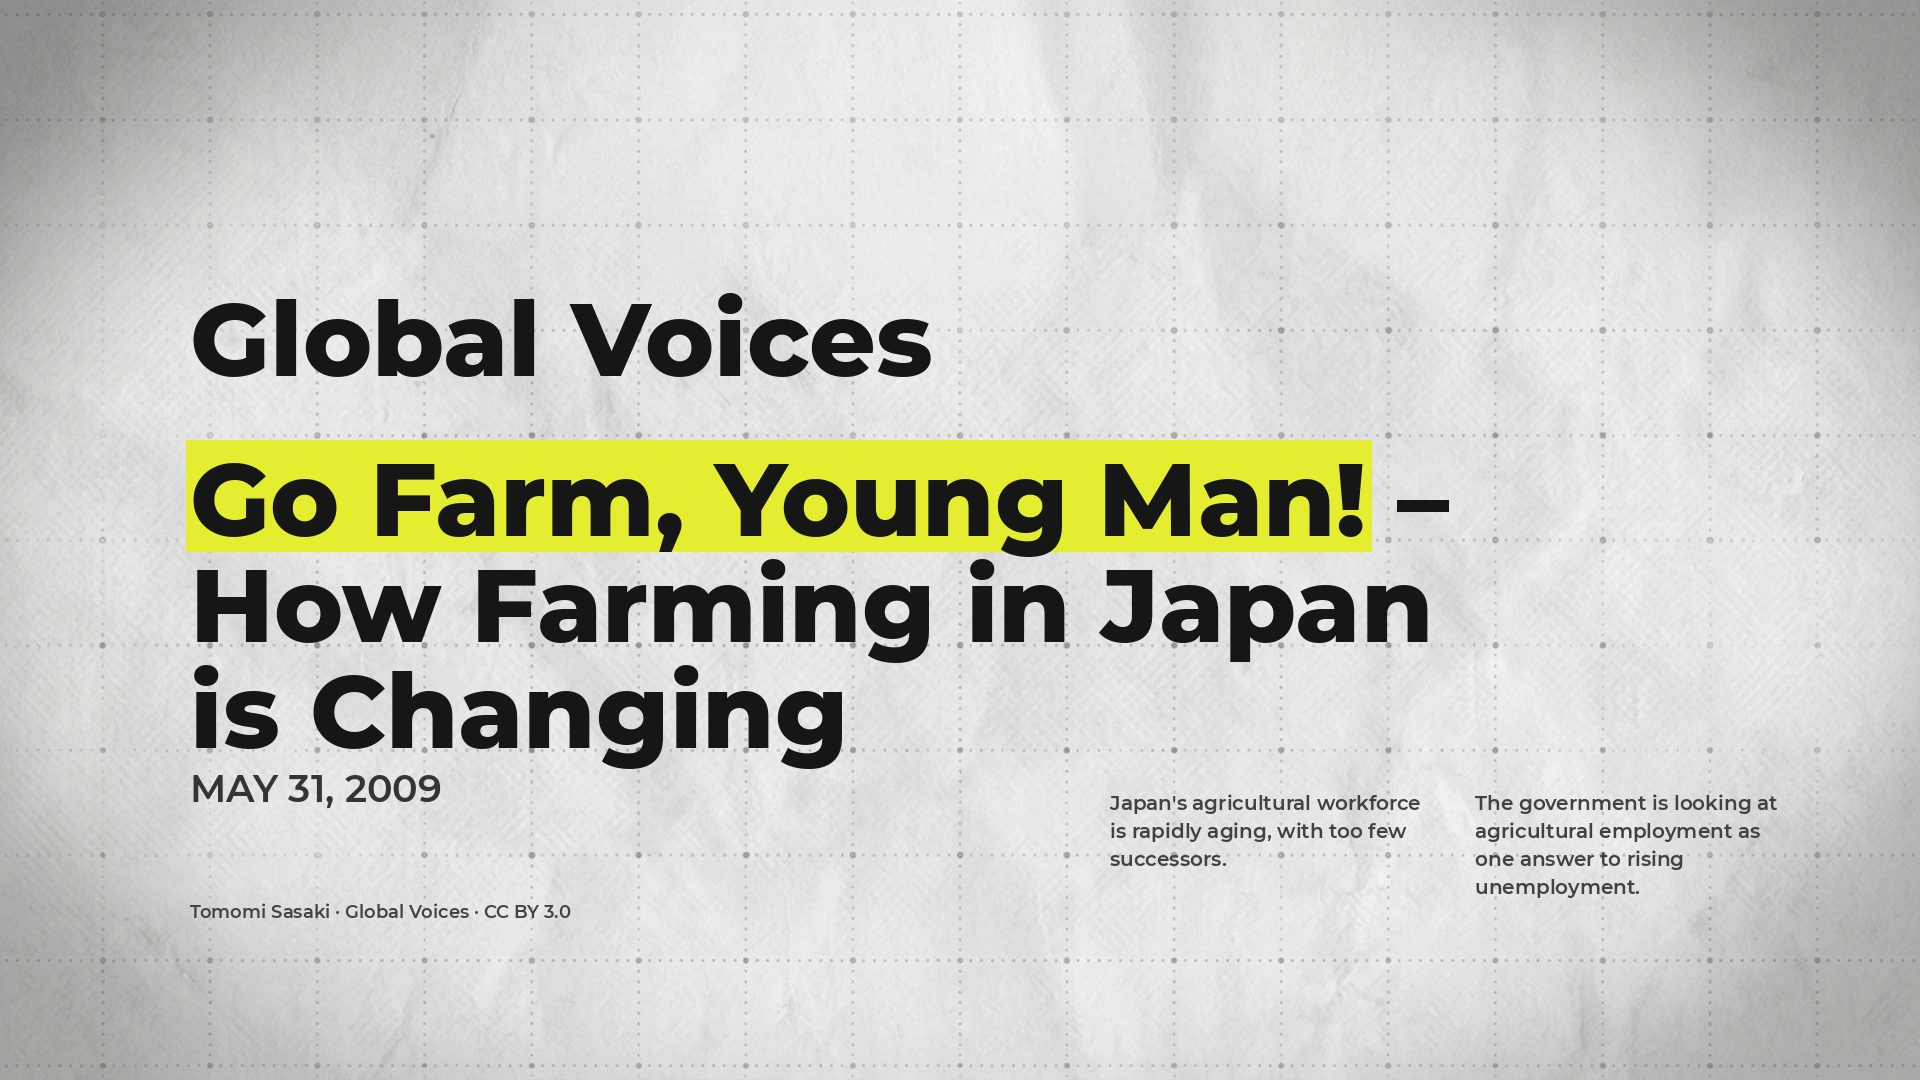
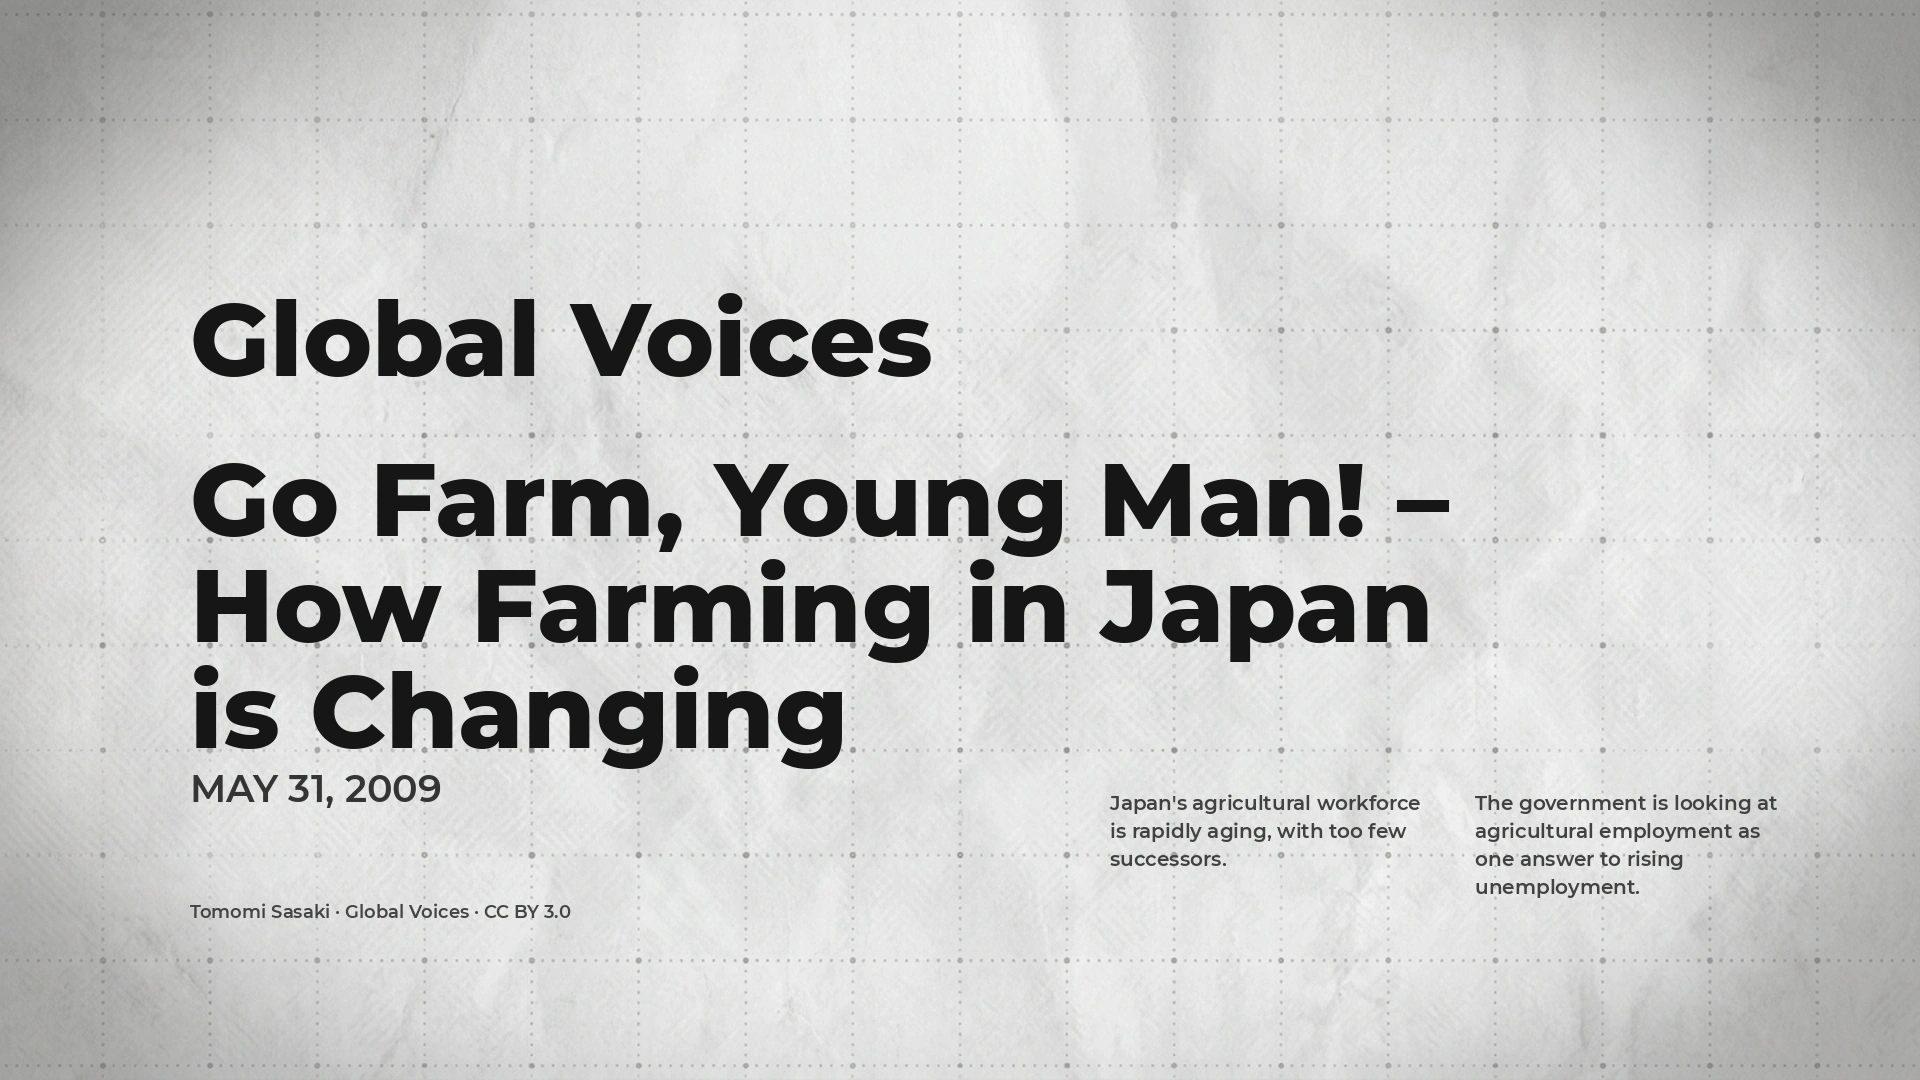
shot6: sweep selective yellow highlights after wall reveal

Changed region(s): [[0.0938, 0.3972, 0.7188, 0.5194]]

diff --git a/src/LabTearWall.tsx b/src/LabTearWall.tsx
@@ -1,5 +1,6 @@
 import React from 'react';
 import {AbsoluteFill, Easing, Img, interpolate, staticFile, useCurrentFrame} from 'remotion';
+import {TEAR_HIGHLIGHTS} from './tear6-highlights';
 
 // Correct reference structure: the HEADLINE is on the wall behind.
 // A separate gray paper sheet covers it and tears into top/bottom halves.
@@ -19,8 +20,31 @@ export const LabTearWall: React.FC = () => {
 
   return (
     <AbsoluteFill style={{background: '#dededa', overflow: 'hidden'}}>
-      {/* The licensed headline, date, highlight and attribution are baked into this wall image. */}
+      {/* The licensed headline, date and attribution live on the wall. */}
       <Img src={staticFile(WALLS[index])} style={{position: 'absolute', inset: 0, width: 1920, height: 1080}} />
+
+      {/* Selective highlighter strokes begin only after the paper is fully open.
+          Multiply keeps the black letters and the wall texture visible. */}
+      {TEAR_HIGHLIGHTS[index].map((rect, markIndex) => {
+        const start = 34 + markIndex * 5;
+        const sweep = interpolate(local, [start, start + 12], [0, 1], {...clamp, easing: Easing.out(Easing.cubic)});
+        return (
+          <div
+            key={`${index}-${markIndex}`}
+            style={{
+              position: 'absolute',
+              left: rect.x,
+              top: rect.y,
+              width: rect.width,
+              height: rect.height,
+              background: '#e5ed2f',
+              mixBlendMode: 'multiply',
+              transform: `scaleX(${sweep})`,
+              transformOrigin: 'left center',
+            }}
+          />
+        );
+      })}
 
       {open <= 0.001 ? (
         <Img src={staticFile('tear6-cover-full.webp')} style={{position: 'absolute', inset: 0, width: 1920, height: 1080}} />

diff --git a/src/tear6-highlights.ts b/src/tear6-highlights.ts
@@ -1,0 +1,13 @@
+// Generated by scripts/build_tear6_wall.py — exact text measurements.
+export const TEAR_HIGHLIGHTS = [
+  [
+    {x: 715.73, y: 440.00, width: 729.56, height: 131.00},
+    {x: 186.00, y: 566.00, width: 561.91, height: 131.00},
+  ],
+  [
+    {x: 186.00, y: 440.00, width: 1321.20, height: 101.00},
+  ],
+  [
+    {x: 186.00, y: 440.00, width: 1185.70, height: 111.00},
+  ],
+] as const;

diff --git a/scripts/build_tear6_wall.py b/scripts/build_tear6_wall.py
@@ -38,12 +38,13 @@ def font(path, size):
     return ImageFont.truetype(str(path), size)
 
 
-def segments(draw, xy, parts, fnt):
+def segments(draw, xy, parts, fnt, marks):
     x, y = xy
     for text, marked in parts:
         width = draw.textlength(text, font=fnt)
         if marked:
-            draw.rectangle((x - 4, y + 5, x + width + 5, y + fnt.size + 12), fill='#e5ed2f')
+            # Geometry only: Remotion sweeps this yellow mark AFTER the paper opens.
+            marks.append((x - 4, y + 5, x + width + 5, y + fnt.size + 12))
         draw.text((x, y), text, font=fnt, fill=(22, 22, 22, 255))
         x += width
 
@@ -66,15 +67,19 @@ def wrap(draw, text, fnt, width):
 def build_walls():
     # Open-book reference match: fine dotted/wrinkled wall, large left-aligned
     # source + headline block, date below, and two article columns at lower right.
+    # Yellow marks are NOT baked in: their measured geometry is exported so the
+    # Remotion layer can sweep them onto the wall only after the reveal finishes.
     blank = Image.open(PUB / 'tear6-wall-blank.webp').convert('RGB').resize((W, H), Image.Resampling.LANCZOS)
+    all_marks = []
     for card in CARDS:
         im = blank.copy()
         d = ImageDraw.Draw(im)
+        marks = []
         d.text((190, 275), card['source'], font=font(FONT_B, 104), fill=(22, 22, 22, 255))
         y = 435
         hf = font(FONT_B, card['fs'])
         for parts in card['lines']:
-            segments(d, (190, y), parts, hf)
+            segments(d, (190, y), parts, hf, marks)
             y += int(card['fs'] * 1.02)
         d.text((190, y + 12), card['date'], font=font(FONT_S, 38), fill=(52, 52, 52, 255))
         d.text((190, 900), card['credit'], font=font(FONT_S, 18), fill=(68, 68, 68, 255))
@@ -86,7 +91,19 @@ def build_walls():
                 d.text((x, yy), line, font=bf, fill=(65, 65, 65, 220))
                 yy += 28
         im.save(PUB / card['out'], quality=95, method=6)
+        all_marks.append(marks)
         print('wall', card['out'], flush=True)
+
+    ts = ['// Generated by scripts/build_tear6_wall.py — exact text measurements.',
+          'export const TEAR_HIGHLIGHTS = [']
+    for marks in all_marks:
+        ts.append('  [')
+        for x0, y0, x1, y1 in marks:
+            ts.append(f'    {{x: {x0:.2f}, y: {y0:.2f}, width: {x1-x0:.2f}, height: {y1-y0:.2f}}},')
+        ts.append('  ],')
+    ts.append('] as const;\n')
+    (ROOT / 'src' / 'tear6-highlights.ts').write_text('\n'.join(ts), encoding='utf-8')
+    print('highlight geometry exported', flush=True)
 
 
 def build_cover():
